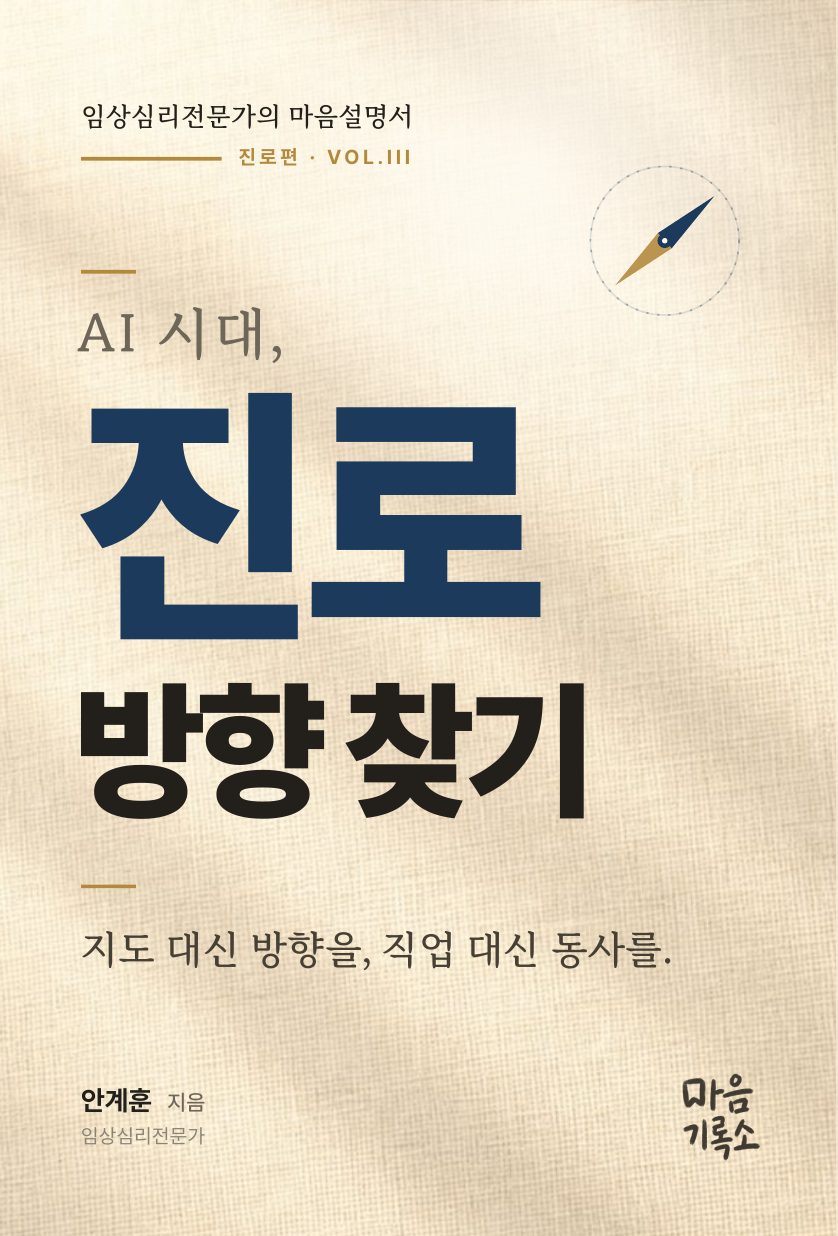
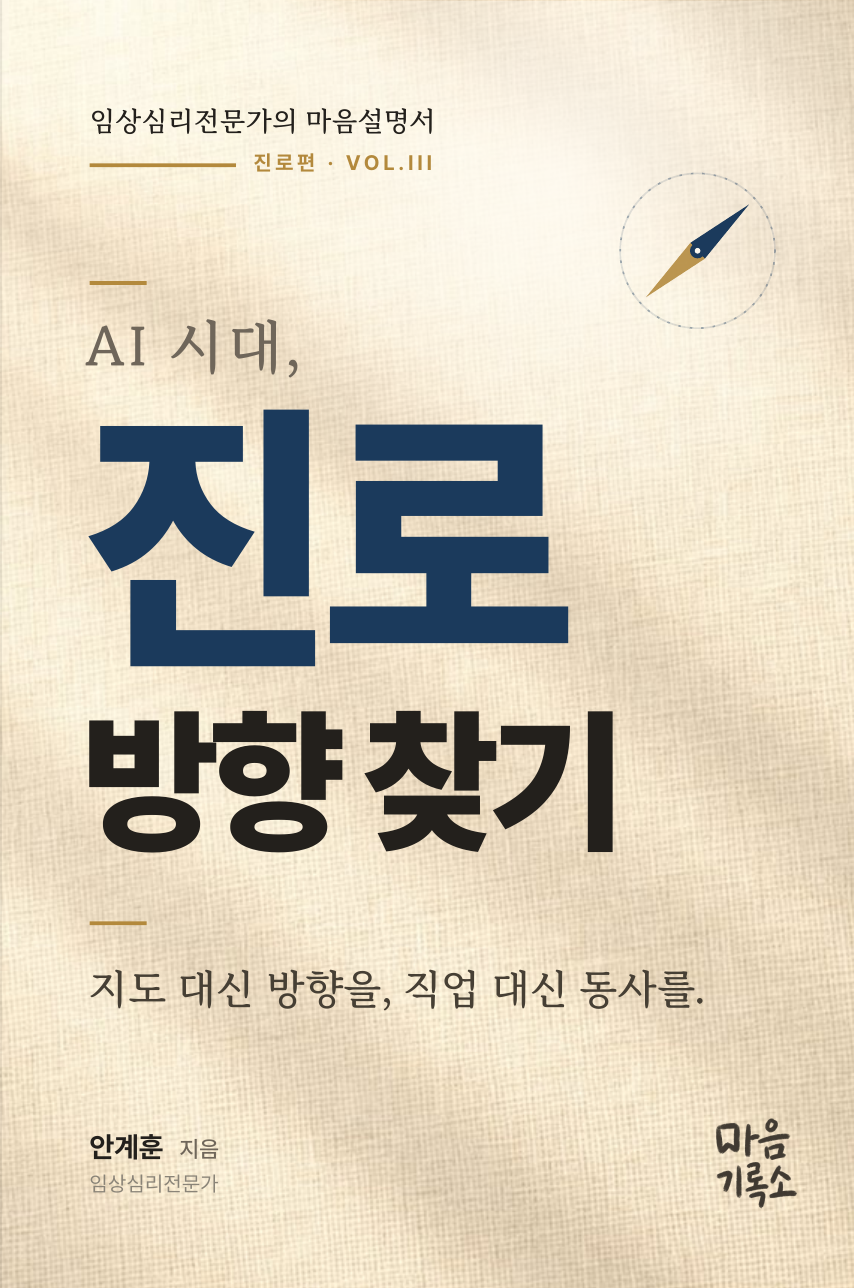
Use the final printed spine in the 3D book

diff --git a/site-v6.css b/site-v6.css
@@ -181,8 +181,8 @@ input {
 .book-stage-link {
   --book-height: 430px;
   --book-width: 292px;
-  --book-depth: 24px;
-  --book-half-depth: 12px;
+  --book-depth: 35.5px;
+  --book-half-depth: calc(var(--book-depth) / 2);
   position: relative;
   display: grid;
   width: 100%;
@@ -464,8 +464,8 @@ input {
 .book-cover-toggle {
   --book-height: min(540px, 62vw);
   --book-width: min(366px, 42vw);
-  --book-depth: 24px;
-  --book-half-depth: 12px;
+  --book-depth: min(44.5px, 5.11vw);
+  --book-half-depth: calc(var(--book-depth) / 2);
   position: relative;
   width: min(100%, calc(var(--book-width) + 56px));
   height: calc(var(--book-height) + 30px);
@@ -536,36 +536,16 @@ input {
 .book-spine {
   left: calc(-1 * var(--book-half-depth));
   width: var(--book-depth);
-  overflow: hidden;
-  background: #e8dfc8;
-  border: 1px solid rgba(31, 41, 55, 0.12);
+  opacity: 0;
   transform: rotateY(-90deg);
+  transition: opacity 0.08s ease 0.42s;
 }
 
-.book-spine-title,
-.book-spine-publisher {
-  position: absolute;
-  left: 50%;
-  writing-mode: vertical-rl;
-  text-orientation: mixed;
-  transform: translateX(-50%);
-  white-space: nowrap;
-  color: #1f2d3d;
-  font-size: 9px;
-  font-weight: 650;
-  line-height: 1;
-  letter-spacing: -0.04em;
-}
-
-.book-spine-title {
-  top: 18px;
-}
-
-.book-spine-publisher {
-  bottom: 18px;
-  color: #1f2d3d;
-  font-size: 8px;
-  letter-spacing: 0;
+.book-spine img {
+  width: 100%;
+  height: 100%;
+  display: block;
+  object-fit: fill;
 }
 
 .book-cover-toggle:focus-visible,
@@ -575,14 +555,28 @@ input {
 }
 
 .book-stage-link:focus-visible .book-object,
+.book-cover-toggle.is-spine-visible .book-object,
 .book-cover-toggle[aria-pressed="true"] .book-object {
   transform: translateY(-8px) rotateY(28deg);
+}
+
+.book-stage-link:focus-visible .book-spine,
+.book-cover-toggle.is-spine-visible .book-spine,
+.book-cover-toggle[aria-pressed="true"] .book-spine {
+  opacity: 1;
+  transition-delay: 0s;
 }
 
 @media (hover: hover) and (pointer: fine) {
   .book-cover-toggle:hover .book-object,
   .book-stage-link:hover .book-object {
     transform: translateY(-8px) rotateY(28deg);
+  }
+
+  .book-cover-toggle:hover .book-spine,
+  .book-stage-link:hover .book-spine {
+    opacity: 1;
+    transition-delay: 0s;
   }
 }
 
@@ -1098,6 +1092,7 @@ input {
   .book-stage-link {
     --book-height: 392px;
     --book-width: 266px;
+    --book-depth: 32.4px;
   }
 
   .quote {
@@ -1159,6 +1154,7 @@ input {
   .book-stage-link {
     --book-height: min(430px, 60vw);
     --book-width: min(292px, 40.7vw);
+    --book-depth: min(35.5px, 4.95vw);
   }
 
   .quote-block {
@@ -1271,6 +1267,7 @@ input {
   .book-stage-link {
     --book-height: 217px;
     --book-width: 147px;
+    --book-depth: 17.9px;
   }
 
   .home-main .book-copy {
@@ -1410,6 +1407,7 @@ input {
   .book-cover-toggle {
     --book-height: min(480px, 118vw);
     --book-width: min(326px, 80vw);
+    --book-depth: min(39.7px, 9.74vw);
   }
 
   .book-detail .book-copy h2 {
@@ -1520,6 +1518,7 @@ input {
   .book-stage-link {
     --book-height: 207px;
     --book-width: 140px;
+    --book-depth: 17px;
   }
 
   .feature-article {
@@ -1544,6 +1543,10 @@ input {
   }
 
   .book-object {
+    transition: none;
+  }
+
+  .book-spine {
     transition: none;
   }
 }

diff --git a/book.html b/book.html
@@ -5,8 +5,8 @@
   <meta name="viewport" content="width=device-width, initial-scale=1">
   <meta name="description" content="마음기록소의 책과 출간 예정 도서를 소개합니다.">
   <title>책 · 마음기록소</title>
-  <link rel="stylesheet" href="site-v6.css?v=7">
-  <script src="app.js?v=7" defer></script>
+  <link rel="stylesheet" href="site-v6.css?v=8">
+  <script src="app.js?v=8" defer></script>
 
   <link rel="canonical" href="https://doencourage.com/book">
   <meta property="og:url" content="https://doencourage.com/book">
@@ -27,11 +27,10 @@
         <button class="book-cover-toggle" type="button" aria-label="책등 보기" aria-pressed="false">
           <span class="book-object">
             <span class="book-spine" aria-hidden="true">
-              <span class="book-spine-title">AI 시대, 진로 방향 찾기</span>
-              <span class="book-spine-publisher">마음기록소</span>
+              <img src="assets/career-spine.png" alt="" draggable="false">
             </span>
             <span class="book-front">
-              <img src="assets/career-cover.png" alt="AI 시대, 진로 방향 찾기 표지" width="838" height="1236">
+              <img src="assets/career-cover.png" alt="AI 시대, 진로 방향 찾기 표지" width="854" height="1288">
             </span>
           </span>
         </button>

diff --git a/index.html b/index.html
@@ -5,8 +5,8 @@
   <meta name="viewport" content="width=device-width, initial-scale=1">
   <meta name="description" content="자기이해와 심리학을 오늘의 언어로 펴내는 출판사, 마음기록소입니다.">
   <title>마음기록소</title>
-  <link rel="stylesheet" href="site-v6.css?v=7">
-  <script src="app.js?v=7" defer></script>
+  <link rel="stylesheet" href="site-v6.css?v=8">
+  <script src="app.js?v=8" defer></script>
   <script>
     (function () {
       var legacySections = ["diff", "gap", "preview", "process", "tiers", "author", "faq", "apply"];
@@ -37,8 +37,7 @@
         <a class="book-stage-link" href="book.html" aria-label="AI 시대, 진로 방향 찾기 책 소개 보기">
           <span class="book-object">
             <span class="book-spine" aria-hidden="true">
-              <span class="book-spine-title">AI 시대, 진로 방향 찾기</span>
-              <span class="book-spine-publisher">마음기록소</span>
+              <img src="assets/career-spine.png" alt="" draggable="false">
             </span>
             <span class="book-front">
               <img class="book-cover" src="assets/career-front.png" alt="AI 시대, 진로 방향 찾기 책 표지">

diff --git a/app.js b/app.js
@@ -64,6 +64,7 @@
     const setBookCoverOpen = (open) => {
       bookCoverToggle.setAttribute("aria-pressed", String(open));
       bookCoverToggle.setAttribute("aria-label", open ? "책등 닫기" : "책등 보기");
+      bookCoverToggle.classList.toggle("is-spine-visible", open);
     };
 
     bookCoverToggle.addEventListener("click", () => {
